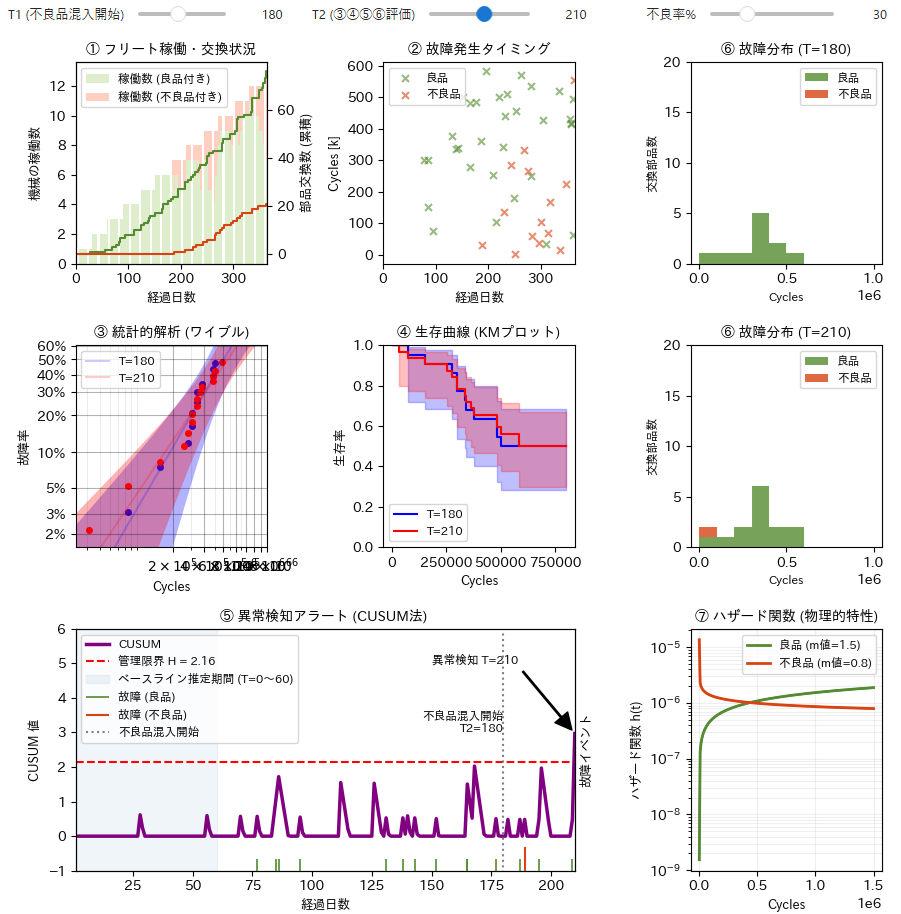
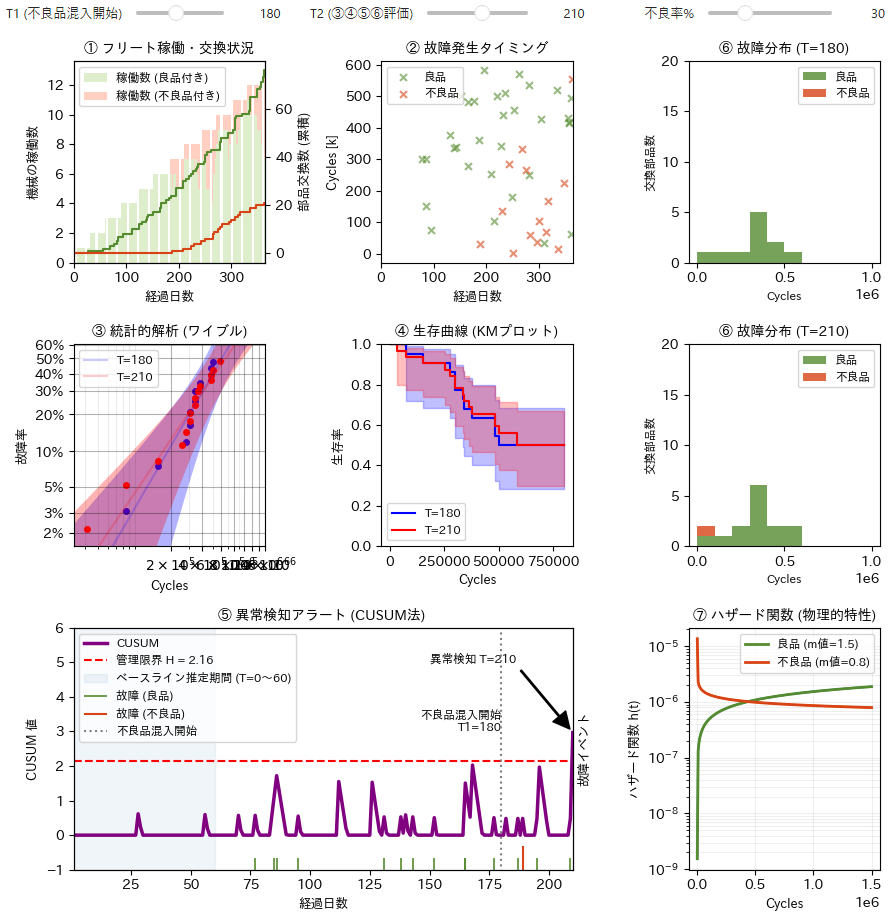
UPDATED

diff --git a/article5_cusum/fleet_anomaly_detection.py b/article5_cusum/fleet_anomaly_detection.py
@@ -76,12 +76,14 @@ class ReliabilitySimulator:
     不良品混入開始日 T1 (contamination_day) 以降の交換では、mix_rate_fraction の確率で不良品が混入する。
     """
 
-    def __init__(self, cfg, mix_rate_percent: float):
+    def __init__(self, cfg, baseline_day: int, mix_rate_percent: float):
         """
         Parameters
         ----------
         cfg : Config
             シミュレーション全パラメータを保持するクラス。
+        baseline_day : int
+            この日以降の交換から不良品が混入し始める
         mix_rate_percent : float
             不良品の混入率 [%]。内部では mix_rate_fraction（0〜1）に変換して使用する。
 
@@ -94,6 +96,7 @@ class ReliabilitySimulator:
                           good_replacements, defective_replacements
         """
         self.cfg = cfg
+        self.cfg.CONTAMINATION_DAY = baseline_day
         self.mix_rate_fraction = mix_rate_percent / 100.0
         self._run_simulation()
 
@@ -241,7 +244,7 @@ class Config:
     ALPHA_BAD  = 0.0
 
     # --- 不良品混入タイミング(デフォルト値) ---
-    CONTAMINATION_DAY = 181   # この日以降の交換から不良品が混入し始める
+    # CONTAMINATION_DAY = 181   # この日以降の交換から不良品が混入し始める
 
     # --- 年間想定交換件数(α 逆算に使用) ---
     EXPECTED_REPLACEMENTS_PER_YEAR = 50
@@ -289,8 +292,7 @@ def update_dashboard(baseline_day: int, evaluation_day: int, mix_rate_percent: i
     Parameters
     ----------
     baseline_day : int
-        T1。③ワイブル・④KM・⑥ヒストグラムの比較基準日。
-        CUSUM（⑤）のベースライン推定には使用しない。
+        T1。③ワイブル・④KM・⑥ヒストグラムの比較基準日。CUSUM（⑤）のベースライン推定には使用しない。
     evaluation_day : int
         T2。ワイブル・KM・ヒストグラムの評価日。CUSUM はこの日までのデータを集計する。
     mix_rate_percent : int
@@ -317,7 +319,7 @@ def update_dashboard(baseline_day: int, evaluation_day: int, mix_rate_percent: i
 
     np.random.seed(42)  # スライダー操作にかかわらず、標本を一定にしたい
 
-    simulator = ReliabilitySimulator(Config, mix_rate_percent)
+    simulator = ReliabilitySimulator(Config, baseline_day, mix_rate_percent)
     fig = plt.figure(figsize=(20, 10))
     grid = fig.add_gridspec(3, 3, height_ratios=[1, 1, 1.2])
 
